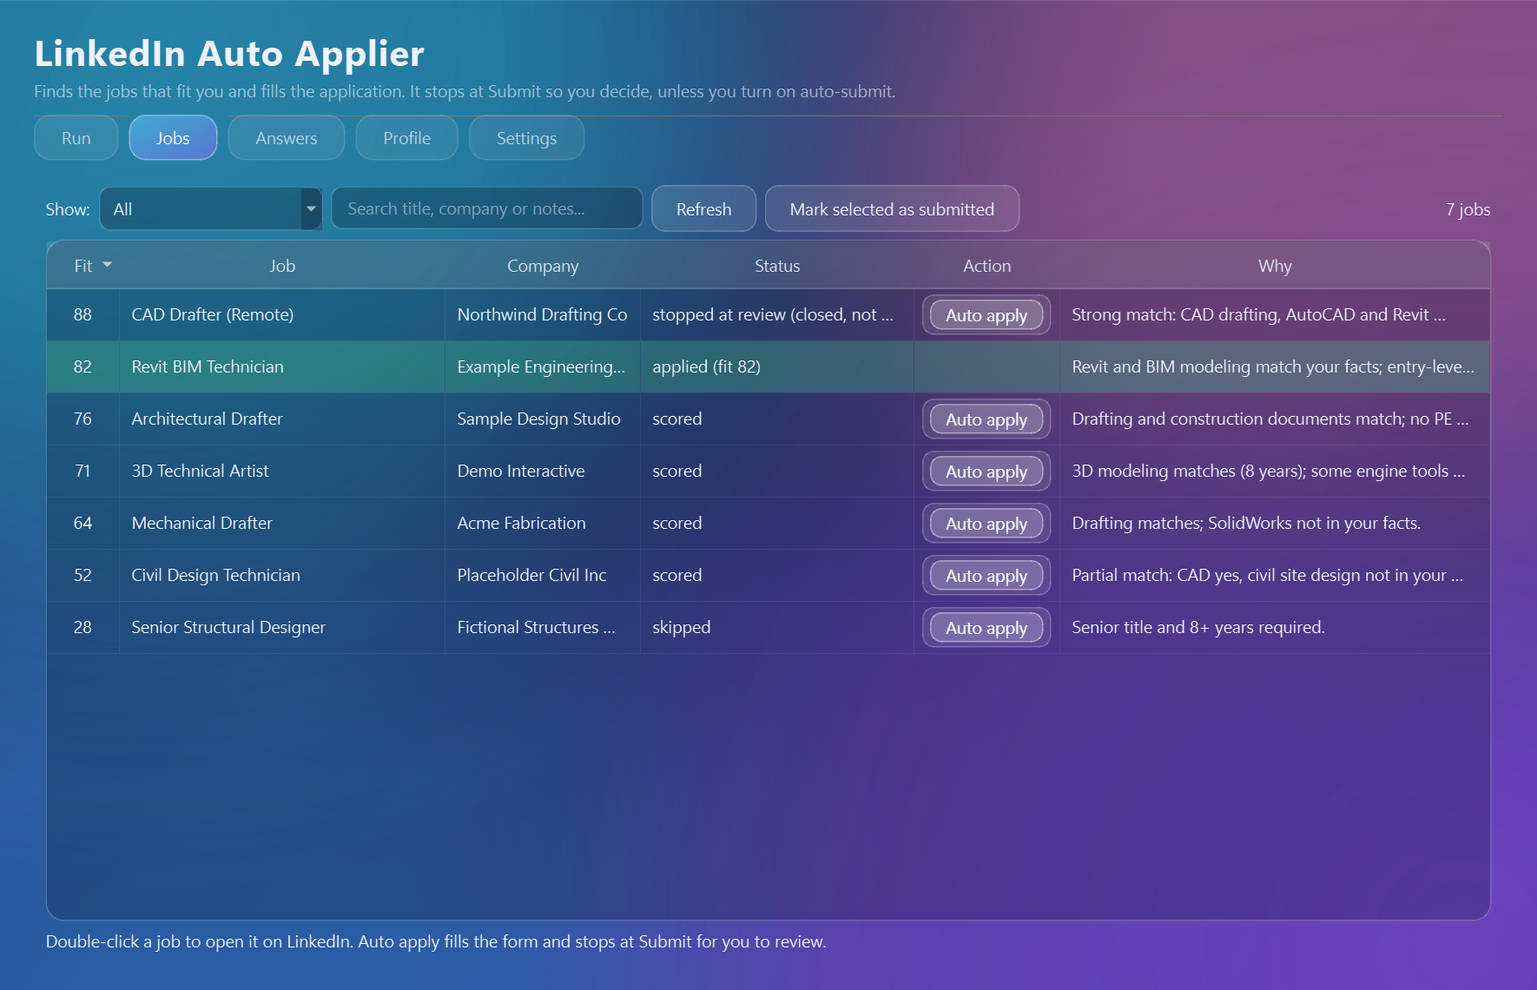
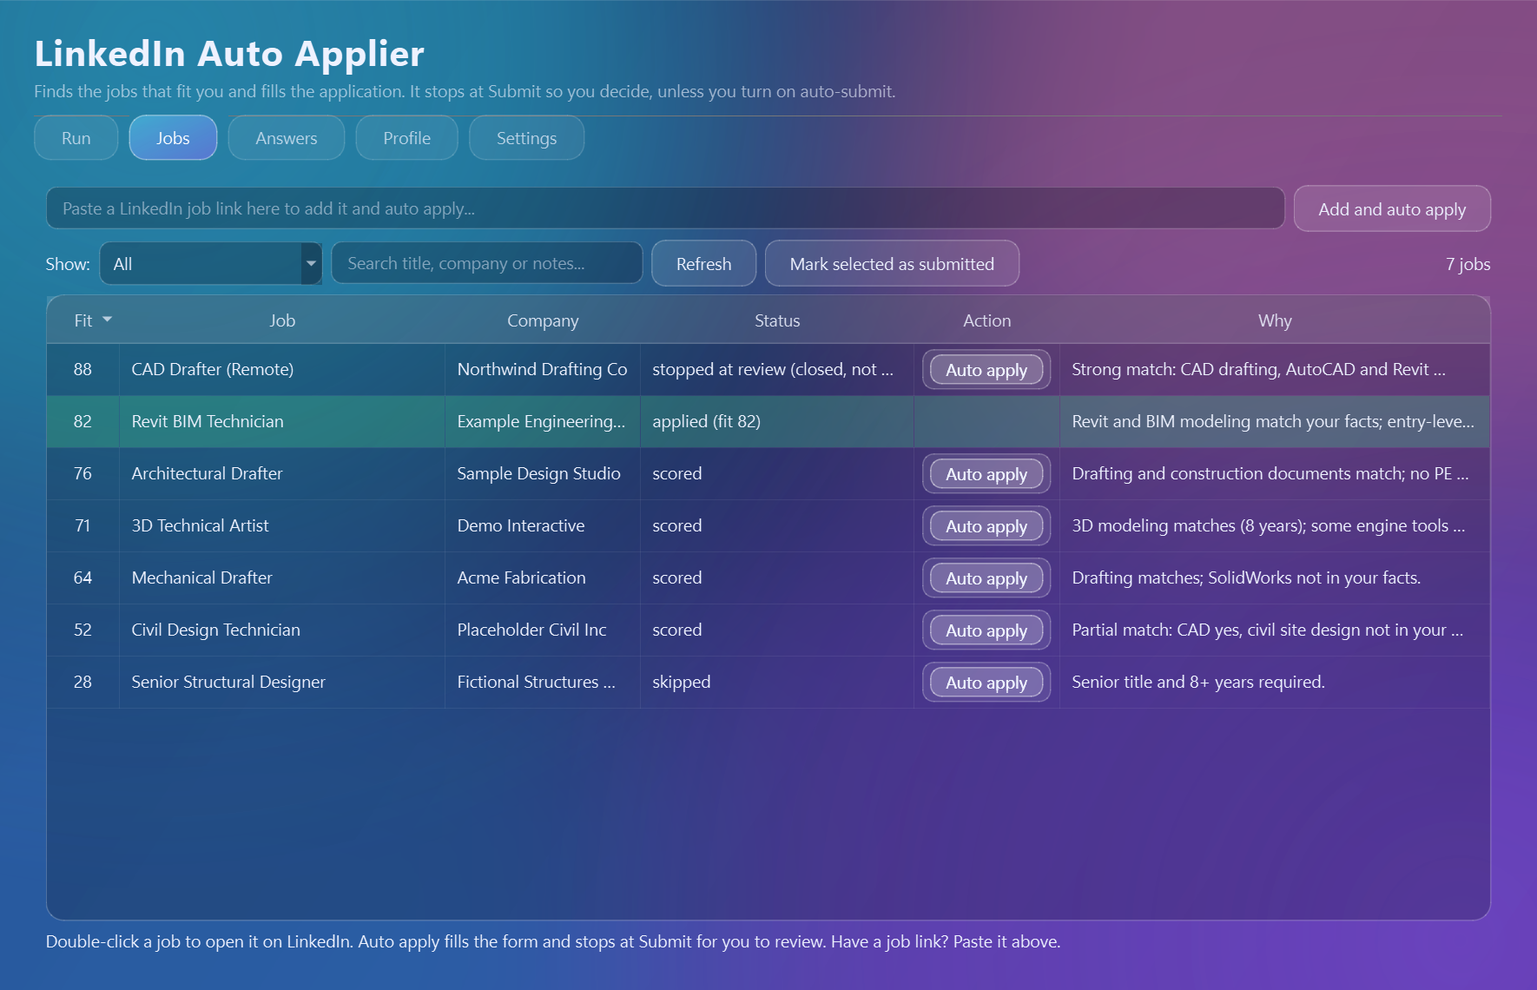
Jobs tab: paste a LinkedIn job link to add the job and auto apply
- New link box on the Jobs tab ("Add and auto apply"): accepts /jobs/view/ links,
  links with ?currentJobId=, and bare job ids; other websites are refused.
- The single-job run reads title, company and location from the job page,
  adds the job to the history right away, scores its fit when an AI key is
  saved, then fills the form and stops at Submit (never auto-submits).
- Jobs already recorded as submitted ask before being opened again.
- --job on the command line also accepts a link.
- Tests for link parsing, page-title parsing and the GUI wiring.

diff --git a/hybrid_apply.py b/hybrid_apply.py
@@ -43,7 +43,7 @@ ap.add_argument("--daily-cap", type=int, default=SETTINGS["daily_cap"], help="st
 ap.add_argument("--any-level", action="store_true", help="smart mode: don't limit to entry-level / associate postings")
 ap.add_argument("--auto-submit", action="store_true", help="OPT-IN: click Submit for you when the application has nothing that needs a look, then move on to the next form")
 ap.add_argument("--no-review-pause", action="store_true", help="with --auto-submit: submit even when an answer is flagged (AI-written credential/legal answers, guessed years, blanks)")
-ap.add_argument("--job", default="", help="apply to this one LinkedIn job id (from the Jobs tab): fill the form and stop at Submit")
+ap.add_argument("--job", default="", help="apply to this one LinkedIn job (a job id or a pasted job link): fill the form and stop at Submit")
 ap.add_argument("--allow-senior", action="store_true", default=bool(SETTINGS["allow_senior"]), help="smart mode: don't skip Senior / Lead / Manager / Director titles")
 ap.add_argument("--max-years", type=int, default=SETTINGS["max_years"], help="smart mode: skip postings that require this many years or more (default 7)")
 args = ap.parse_args()
@@ -184,7 +184,7 @@ def has_word(text, words):
     return None
 
 
-from li_selectors import visible, CARD_CSS, NEXT_PAGE_CSS, APPLY_BTN_CSS, ABOUT_COMPANY_FMT, READ_CARD_JS, DESC_JS, DETAILS_FOR_JS, parse_card
+from li_selectors import visible, CARD_CSS, NEXT_PAGE_CSS, APPLY_BTN_CSS, ABOUT_COMPANY_FMT, READ_CARD_JS, DESC_JS, DETAILS_FOR_JS, JOB_META_JS, parse_card
 
 
 def pause(a=1.5, b=3.5):
@@ -416,10 +416,12 @@ def safe_scan(term, limit, done_ids, seen_all):
         print(f'   (the search for "{term}" stopped early: {type(e).__name__}; moving on to the next title)')
 
 
-def open_job(job):
-    """Load the search with this job selected in the details pane. Returns True when its Easy Apply button is there."""
+def open_job(job, direct=False):
+    """Load the search with this job selected in the details pane. Returns True when its Easy Apply button is there.
+    direct=True (a job that came from a pasted link) tries the job's own page first, since it may not be in any search."""
     jid = job["id"]
-    for url in (build_url(job["term"]) + f"&currentJobId={jid}", f"https://www.linkedin.com/jobs/view/{jid}/"):
+    urls = [build_url(job["term"]) + f"&currentJobId={jid}", f"https://www.linkedin.com/jobs/view/{jid}/"]
+    for url in (urls[::-1] if direct else urls):
         d.get(url)
         check_blocked()
         for _ in range(30):
@@ -432,19 +434,26 @@ def open_job(job):
 
 def apply_one(job_id, done_ids):
     """Auto apply to one specific job (the Jobs tab button): open it, fill the form, stop at Submit, ask what you did."""
-    from job_lookup import build_job, history_row
-    args.auto_submit = False                       # the Jobs tab button always pauses at Submit for you
+    from job_lookup import build_job, history_row, parse_job_meta
+    args.auto_submit = False                      # the Jobs tab button always pauses at Submit for you
     SCORE_CACHE.update(load_cache())
     job = build_job(job_id, SCORE_CACHE.get(job_id), history_row(job_id, HISTORY))
+    known = bool(job["title"])                     # False for a job that came from a pasted link: read it from its page
     score = job["score"] if job["score"] is not None else "-"
-    print(f">>> Applying to #1: [{score}] {job['title'] or job_id} | {job['company']}")
+    print(f">>> Applying to #1: [{score}] {job['title'] or 'LinkedIn job ' + job_id} | {job['company']}")
     if job["reason"]: print(f"    why: {job['reason'][:220]}")
+    if not known:
+        log_row(job, "added from a link")          # on the Jobs list from the start, even if the run is stopped
     try:
-        page_ok = open_job(job)
+        page_ok = open_job(job, direct=not known)
     except (InvalidSessionIdException, NoSuchWindowException, Blocked):
         raise
     except Exception as e:
         print(f"   (could not open this job's page: {type(e).__name__})"); page_ok = False
+    if not known and page_ok:
+        meta = parse_job_meta(d.execute_script(JOB_META_JS))
+        for k in ("title", "company", "location"): job[k] = job[k] or meta[k]
+        if job["title"]: print(f"   read the job: {job['title']} | {job['company']} | {job['location']}")
     if not page_ok:
         print("   could not open this job's page with an Easy Apply button. It may be closed, already applied to, or not Easy Apply.")
         log_row(job, "could not open job page"); return
@@ -453,7 +462,17 @@ def apply_one(job_id, done_ids):
         desc = d.execute_script(DESC_JS) or ""
         els = d.find_elements(By.CSS_SELECTOR, ABOUT_COMPANY_FMT.format(jid=job_id))
         about = els[0].text if els else ""
-        job["title"] = job["title"] or (d.title.split("|")[0].strip() if d.title else "")
+    if job["score"] is None and answerer is not None and desc:     # a new job gets a fit score like any other, shown in the Jobs list
+        job["description"], job["about"] = desc, about
+        job["score"], job["reason"] = answerer.score_job(job)
+        if job["score"] >= 0:
+            from ai_answers import SCORE_VERSION
+            SCORE_CACHE[job_id] = {"score": job["score"], "reason": job["reason"], "description": desc[:6000], "about": about[:1500],
+                                   "title": job["title"], "company": job["company"], "location": job["location"], "ts": time.time(), "v": SCORE_VERSION}
+            save_cache()
+            print(f"   fit score: {job['score']}  {job['reason'][:200]}")
+        else:
+            job["score"] = None
     try:
         result = hand_over_form(job, desc, about)
     except (InvalidSessionIdException, NoSuchWindowException, Blocked):
@@ -549,6 +568,12 @@ def smart_main(done_ids):
 
 
 def main():
+    if args.job:                                   # --job takes a job id or a pasted LinkedIn job link
+        from job_lookup import parse_job_link
+        args.job = parse_job_link(args.job)
+        if not args.job:
+            print("ERROR: that is not a LinkedIn job link or job id (expected something like https://www.linkedin.com/jobs/view/1234567890/)")
+            return
     done_ids = load_history()
     terms = args.terms or S.search_terms
     forms_opened = 0

diff --git a/desktop/tabs.py b/desktop/tabs.py
@@ -9,6 +9,7 @@ from PySide6.QtWidgets import (QAbstractItemView, QApplication, QCheckBox, QComb
 
 import app_settings
 import secure_store
+from job_lookup import parse_job_link
 from desktop import data
 from desktop import preflight
 from desktop.runner import BotRunner, ROOT
@@ -289,9 +290,17 @@ class RunTab(QWidget):
 # ====================================================================================== Jobs
 class JobsTab(QWidget):
     apply_requested = Signal(str, str, str)        # job id, title, company
+    link_requested = Signal(str, str, str)         # job id, title, company of a job added from a pasted link (title may be empty)
 
     def __init__(self):
         super().__init__()
+        self.link_edit = QLineEdit(); self.link_edit.setPlaceholderText("Paste a LinkedIn job link here to add it and auto apply...")
+        self.link_edit.setClearButtonEnabled(True)
+        self.link_btn = QPushButton("Add and auto apply")
+        self.link_btn.setToolTip("Adds the job to this list, opens it, fills the form and stops at the Submit page for you to review")
+        self.link_msg = QLabel(""); self.link_msg.setObjectName("status")
+        link_row = QHBoxLayout(); link_row.addWidget(self.link_edit, 1); link_row.addWidget(self.link_btn)
+        self.link_edit.returnPressed.connect(self.add_from_link); self.link_btn.clicked.connect(self.add_from_link)
         self.filter = QComboBox(); self.filter.addItems(["All", "Submitted", "Opened, not submitted", "Skipped or low fit", "Scored only"])
         self.refresh_btn = QPushButton("Refresh")
         self.mark_btn = QPushButton("Mark selected as submitted")
@@ -306,9 +315,10 @@ class JobsTab(QWidget):
         for col, width in ((0, 56), (1, 250), (2, 150), (3, 210), (4, 112)):
             h.setSectionResizeMode(col, QHeaderView.Interactive); self.table.setColumnWidth(col, width)
         self.table.verticalHeader().setVisible(False); self.table.verticalHeader().setDefaultSectionSize(40)
-        hint = QLabel("Double-click a job to open it on LinkedIn. Auto apply fills the form and stops at Submit for you to review.")
-        lay = QVBoxLayout(self); lay.addLayout(top); lay.addWidget(self.table, 1); lay.addWidget(hint)
-        self._sort = (0, Qt.DescendingOrder)                  # best fit first, like the log
+        hint = QLabel("Double-click a job to open it on LinkedIn. Auto apply fills the form and stops at Submit for you to review. Have a job link? Paste it above.")
+        lay = QVBoxLayout(self); lay.addLayout(link_row); lay.addWidget(self.link_msg); lay.addLayout(top); lay.addWidget(self.table, 1); lay.addWidget(hint)
+        self.link_msg.setVisible(False)
+        self._sort = (0, Qt.DescendingOrder)                # best fit first, like the log
         h.setSectionsClickable(True); h.setSortIndicatorShown(True); h.setSortIndicator(0, Qt.DescendingOrder)
         h.sectionClicked.connect(self._sort_by)
         self.search.textChanged.connect(self.refresh)
@@ -377,6 +387,25 @@ class JobsTab(QWidget):
             else:
                 self.table.removeCellWidget(r, 4)
         self.count.setText(f"{len(self._jobs)} jobs")
+
+    def add_from_link(self):
+        """Take the pasted LinkedIn job link, check it, and ask for a single-job auto apply (it stops at Submit)."""
+        job_id = parse_job_link(self.link_edit.text())
+        if not job_id:
+            self._link_note("That does not look like a LinkedIn job link. Copy it from the job page, for example https://www.linkedin.com/jobs/view/1234567890/")
+            return
+        known = next((j for j in data.load_jobs() if j["id"] == job_id), None)
+        if known and self._bucket(known["status"]) == "Submitted":
+            ans = QMessageBox.question(self, "Already submitted",
+                                       f"This job is already recorded as submitted:\n\n{known['title']} | {known['company']}\n\nOpen it again anyway?",
+                                       QMessageBox.Yes | QMessageBox.No, QMessageBox.No)
+            if ans != QMessageBox.Yes:
+                return
+        self._link_note("")
+        self.link_requested.emit(job_id, (known or {}).get("title", ""), (known or {}).get("company", ""))
+
+    def _link_note(self, text):
+        self.link_msg.setText(text); self.link_msg.setVisible(bool(text))
 
     def mark_submitted(self):
         rows = sorted({i.row() for i in self.table.selectedItems()})

diff --git a/tests/test_desktop.py b/tests/test_desktop.py
@@ -195,6 +195,56 @@ def test_run_tab_start_job_runs_one_job_and_refuses_when_busy(app, monkeypatch):
     assert tab.job_label.text() == "Some Job | Co"
 
 
+def test_jobs_tab_add_from_link(app, monkeypatch):
+    from desktop.tabs import JobsTab
+    from PySide6.QtWidgets import QMessageBox
+    _fake_jobs(monkeypatch)
+    tab = JobsTab()
+    got = []
+    tab.link_requested.connect(lambda i, t, c: got.append((i, t, c)))
+    tab.link_edit.setText("not a link"); tab.link_btn.click()
+    assert got == [] and not tab.link_msg.isHidden() and "LinkedIn job link" in tab.link_msg.text()
+    tab.link_edit.setText("https://www.linkedin.com/jobs/view/987654321/?trk=x"); tab.link_btn.click()          # a new job
+    assert got == [("987654321", "", "")] and tab.link_msg.isHidden()
+    tab.link_edit.setText("https://www.linkedin.com/jobs/view/13/")                                              # id too short to be real
+    got.clear(); tab.link_btn.click()
+    assert got == [] and not tab.link_msg.isHidden()
+    jobs = data.load_jobs()
+    jobs.append({"id": "55555555", "title": "Known Job", "company": "K", "status": "scored", "score": 60, "reason": "", "link": "k"})
+    jobs.append({"id": "66666666", "title": "Done Job", "company": "D", "status": "applied (fit 80)", "score": 80, "reason": "", "link": "d"})
+    monkeypatch.setattr(data, "load_jobs", lambda: jobs)
+    tab.link_edit.setText("55555555"); tab.link_btn.click()                       # a known job reuses its title and company
+    assert got == [("55555555", "Known Job", "K")]
+    got.clear()
+    monkeypatch.setattr(QMessageBox, "question", lambda *a, **k: QMessageBox.No)        # already submitted: asks first
+    tab.link_edit.setText("66666666"); tab.link_btn.click()
+    assert got == []
+    monkeypatch.setattr(QMessageBox, "question", lambda *a, **k: QMessageBox.Yes)
+    tab.link_btn.click()
+    assert got == [("66666666", "Done Job", "D")]
+
+
+def test_main_window_add_from_link_starts_single_job_run(app, monkeypatch):
+    from desktop.main_window import MainWindow
+    _fake_jobs(monkeypatch)
+    w = MainWindow()
+    calls = []
+    monkeypatch.setattr("desktop.preflight.check", lambda **k: [])
+    monkeypatch.setattr(w.runner, "start", lambda script, args=(): calls.append((script, list(args))))
+    monkeypatch.setattr(w.runner, "is_running", lambda: False)
+    w.tabs.setCurrentWidget(w.jobs_tab)
+    w.jobs_tab.link_edit.setText("https://www.linkedin.com/jobs/view/4123456789/")
+    w.jobs_tab.link_btn.click()
+    assert w.tabs.currentWidget() is w.run_tab
+    assert calls == [("hybrid_apply.py", ["--job", "4123456789"])]
+    assert w.jobs_tab.link_edit.text() == "" and "4123456789" in w.run_tab.job_label.text()
+    monkeypatch.setattr(w.runner, "is_running", lambda: True)                     # a run is going: link kept, back on the Jobs tab
+    w.jobs_tab.link_edit.setText("4123456790"); w.jobs_tab.link_btn.click()
+    assert len(calls) == 1 and w.jobs_tab.link_edit.text() == "4123456790" and w.tabs.currentWidget() is w.jobs_tab
+    monkeypatch.setattr(w.runner, "is_running", lambda: False)                    # so closing does not ask about a run in progress
+    w.close()
+
+
 def test_main_window_auto_apply_switches_to_run_tab(app, monkeypatch):
     from desktop.main_window import MainWindow
     _fake_jobs(monkeypatch)

diff --git a/job_lookup.py b/job_lookup.py
@@ -1,5 +1,35 @@
-"""Find what the bot already knows about a job (from the score cache and the history) so it can be applied to by id."""
+"""Find what the bot already knows about a job (from the score cache and the history) so it can be applied to by id,
+and turn a pasted LinkedIn link into a job id."""
 import csv
+import re
+from urllib.parse import parse_qs, urlparse
+
+
+def parse_job_link(text):
+    """The LinkedIn job id in a pasted link (or a bare id), as a string, or "" when it is not one.
+
+    Accepts linkedin.com/jobs/view/<id>/ (also with a title slug before the id, or the /comm/ prefix), search and collection
+    links that carry ?currentJobId=<id>, and a plain number of 8 or more digits. Other websites are refused."""
+    text = (text or "").strip().strip("<>\"'")
+    if not text:
+        return ""
+    if re.fullmatch(r"\d{8,}", text):
+        return text
+    if "://" not in text:
+        text = "https://" + text
+    try:
+        u = urlparse(text)
+    except ValueError:
+        return ""
+    host = (u.hostname or "").lower()
+    if host != "linkedin.com" and not host.endswith(".linkedin.com"):
+        return ""
+    q = parse_qs(u.query)
+    for key in ("currentJobId", "jobId"):
+        if q.get(key) and re.fullmatch(r"\d{8,}", q[key][0]):
+            return q[key][0]
+    m = re.search(r"/jobs/view/(?:[^/?#]*-)?(\d{8,})(?:[/?#]|$)", u.path)
+    return m.group(1) if m else ""
 
 
 def history_row(job_id, path):
@@ -22,3 +52,24 @@ def build_job(job_id, cache_entry=None, history=None):
     return {"id": job_id, "title": title, "company": c.get("company") or h.get("company") or "",
             "location": c.get("location") or h.get("location") or "", "score": c.get("score"), "reason": c.get("reason", ""),
             "description": c.get("description", ""), "about": c.get("about", ""), "term": title or "CAD Drafter"}
+
+
+def parse_job_meta(info):
+    """Title, company and location of the open job page from what JOB_META_JS read: {ld, og, doc} (any may be empty).
+    The page's structured data is preferred; the page title ("Company hiring Title in Place | LinkedIn") is the fallback."""
+    info = info or {}
+    ld = info.get("ld") or {}
+    title, company, location = (ld.get("title") or "").strip(), (ld.get("company") or "").strip(), (ld.get("location") or "").strip()
+    if not (title and company):
+        for raw in (info.get("og"), info.get("doc")):
+            raw = re.sub(r"\s*\|\s*LinkedIn\s*$", "", (raw or "").strip())
+            m = re.match(r"^(?P<co>.+?) (?:is )?hiring (?P<t>.+?)(?: in (?P<loc>.+))?$", raw)
+            if m:
+                title, company = title or m.group("t").strip(), company or m.group("co").strip()
+                location = location or (m.group("loc") or "").strip()
+                break
+            parts = [p.strip() for p in raw.split(" | ") if p.strip()]
+            if len(parts) >= 2:
+                title, company = title or parts[0], company or parts[1]
+                break
+    return {"title": title, "company": company, "location": location}

diff --git a/tests/test_job_lookup.py b/tests/test_job_lookup.py
@@ -1,4 +1,41 @@
-from job_lookup import build_job, history_row
+import pytest
+
+from job_lookup import build_job, history_row, parse_job_link, parse_job_meta
+
+
+@pytest.mark.parametrize("text, expected", [
+    ("https://www.linkedin.com/jobs/view/4123456789/", "4123456789"),
+    ("https://www.linkedin.com/jobs/view/4123456789", "4123456789"),
+    ("https://www.linkedin.com/jobs/view/cad-drafter-at-acme-4123456789/?refId=abc&trackingId=x", "4123456789"),
+    ("linkedin.com/jobs/view/4123456789/", "4123456789"),
+    ("https://www.linkedin.com/comm/jobs/view/4123456789/?trk=email", "4123456789"),
+    ("https://www.linkedin.com/jobs/search/?keywords=cad&currentJobId=4123456789&f_AL=true", "4123456789"),
+    ("https://www.linkedin.com/jobs/collections/recommended/?currentJobId=4123456789", "4123456789"),
+    ("https://uk.linkedin.com/jobs/view/4123456789/", "4123456789"),
+    ("  <https://www.linkedin.com/jobs/view/4123456789/>  ", "4123456789"),
+    ("4123456789", "4123456789"),
+    ("", ""), ("   ", ""), ("hello", ""), ("123", ""),
+    ("https://www.linkedin.com/in/someone/", ""),
+    ("https://www.linkedin.com/jobs/search/?keywords=cad", ""),
+    ("https://example.com/jobs/view/4123456789/", ""),                               # another website is never accepted
+    ("https://linkedin.com.evil.example/jobs/view/4123456789/", ""),
+    ("https://notlinkedin.com/jobs/view/4123456789/", ""),
+])
+def test_parse_job_link(text, expected):
+    assert parse_job_link(text) == expected
+
+
+def test_parse_job_meta_prefers_structured_data_then_titles():
+    ld = {"ld": {"title": "CAD Drafter", "company": "Acme Co", "location": "Remote, US"}, "og": "", "doc": ""}
+    assert parse_job_meta(ld) == {"title": "CAD Drafter", "company": "Acme Co", "location": "Remote, US"}
+    og = {"ld": {}, "og": "Acme Co hiring CAD Drafter in Bozeman, MT | LinkedIn", "doc": ""}
+    assert parse_job_meta(og) == {"title": "CAD Drafter", "company": "Acme Co", "location": "Bozeman, MT"}
+    doc = {"ld": {}, "og": "", "doc": "CAD Drafter | Acme Co | LinkedIn"}
+    assert parse_job_meta(doc) == {"title": "CAD Drafter", "company": "Acme Co", "location": ""}
+    mixed = {"ld": {"title": "Real Title"}, "og": "Acme Co hiring Other in X | LinkedIn", "doc": ""}
+    assert parse_job_meta(mixed)["title"] == "Real Title" and parse_job_meta(mixed)["company"] == "Acme Co"
+    assert parse_job_meta(None) == {"title": "", "company": "", "location": ""}
+    assert parse_job_meta({"ld": {}, "og": "", "doc": "LinkedIn"}) == {"title": "", "company": "", "location": ""}
 
 
 def test_history_row_returns_newest_match(tmp_path):

diff --git a/li_selectors.py b/li_selectors.py
@@ -26,6 +26,26 @@ const h = [...document.querySelectorAll('h2')].find(x => x.innerText.trim() === 
 return h ? h.parentElement.parentElement.innerText : '';
 """
 
+JOB_META_JS = """
+// what the open job page says about itself: its structured data (JobPosting), the share title and the tab title
+let ld = {};
+for (const s of document.querySelectorAll('script[type="application/ld+json"]')) {
+  try {
+    let j = JSON.parse(s.textContent);
+    if (Array.isArray(j)) j = j.find(x => x && x['@type'] === 'JobPosting') || {};
+    if (j && j['@type'] === 'JobPosting') {
+      const loc = j.jobLocation && (Array.isArray(j.jobLocation) ? j.jobLocation[0] : j.jobLocation);
+      const addr = loc && loc.address || {};
+      ld = {title: j.title || '', company: j.hiringOrganization && j.hiringOrganization.name || '',
+            location: [addr.addressLocality, addr.addressRegion, addr.addressCountry].filter(Boolean).join(', ')};
+      break;
+    }
+  } catch (e) {}
+}
+const og = document.querySelector('meta[property="og:title"]');
+return {ld: ld, og: og ? og.content : '', doc: document.title || ''};
+"""
+
 DETAILS_FOR_JS = """
 // true once the right-hand pane shows THIS job (a JobDetails component keyed with its id) and the description text has rendered
 const id = arguments[0];

diff --git a/desktop/main_window.py b/desktop/main_window.py
@@ -43,6 +43,7 @@ class MainWindow(QMainWindow):
             try: self.restoreGeometry(QByteArray.fromBase64(geo.encode("ascii")))
             except Exception: pass
         self.jobs_tab.apply_requested.connect(self._auto_apply)
+        self.jobs_tab.link_requested.connect(self._add_from_link)
         self.run_tab.run_finished.connect(self.jobs_tab.refresh)
         self.run_tab.run_finished.connect(self.answers_tab.refresh)
 
@@ -53,6 +54,14 @@ class MainWindow(QMainWindow):
         """Jobs tab 'Auto apply': start the single-job run and show the Run tab so you can follow it."""
         self.tabs.setCurrentWidget(self.run_tab)
         self.run_tab.start_job(job_id, title, company)
+
+    def _add_from_link(self, job_id, title, company):
+        """Jobs tab 'Add and auto apply': same single-job run; the pasted link is cleared once the run has started."""
+        self.tabs.setCurrentWidget(self.run_tab)
+        if self.run_tab.start_job(job_id, title, company):
+            self.jobs_tab.link_edit.clear()
+        else:
+            self.tabs.setCurrentWidget(self.jobs_tab)          # a run is going or setup was declined: keep the link so you can retry
 
     def showEvent(self, event):
         super().showEvent(event)

diff --git a/README.md b/README.md
@@ -70,7 +70,12 @@ While a job is open, **Open job listing** shows the posting in your browser and 
 **Jobs tab:** every job seen, best fit first. Click a column header to sort (click again to reverse) and use the search box to find a job by title, company or note. Double-click one to open it on LinkedIn. Every job you have not submitted has an **Auto apply** button: it runs the same
 fill-the-form flow for just that job and pauses at Submit. *Mark selected as submitted* fixes the record if you submitted something the log shows as not submitted.
 
-![Jobs tab with an Auto apply button on each unsubmitted job](docs/screenshots/jobs.png)
+**Found a job yourself?** Paste its LinkedIn link into the box at the top of the Jobs tab and click **Add and auto apply**. The app adds the job to the list, opens it,
+fills the form and stops at Submit, exactly like the Auto apply button. It reads the title and company from the page, gives the job a fit score (if an AI key is saved),
+and keeps it in the list afterwards. Links from the address bar, from a search page (`...currentJobId=...`) and from emails all work; the job must have an *Easy Apply* button.
+(From the command line: `start_hybrid.bat --job <link or job id>`.)
+
+![Jobs tab with a link box on top and an Auto apply button on each unsubmitted job](docs/screenshots/jobs.png)
 
 **Answers tab:** answers to reuse for questions that come up again (yours always win over the AI), and a list of what was filled on recent applications. Answers that deserve a second look
 (a guessed number of years, free text written by the AI) are highlighted.
